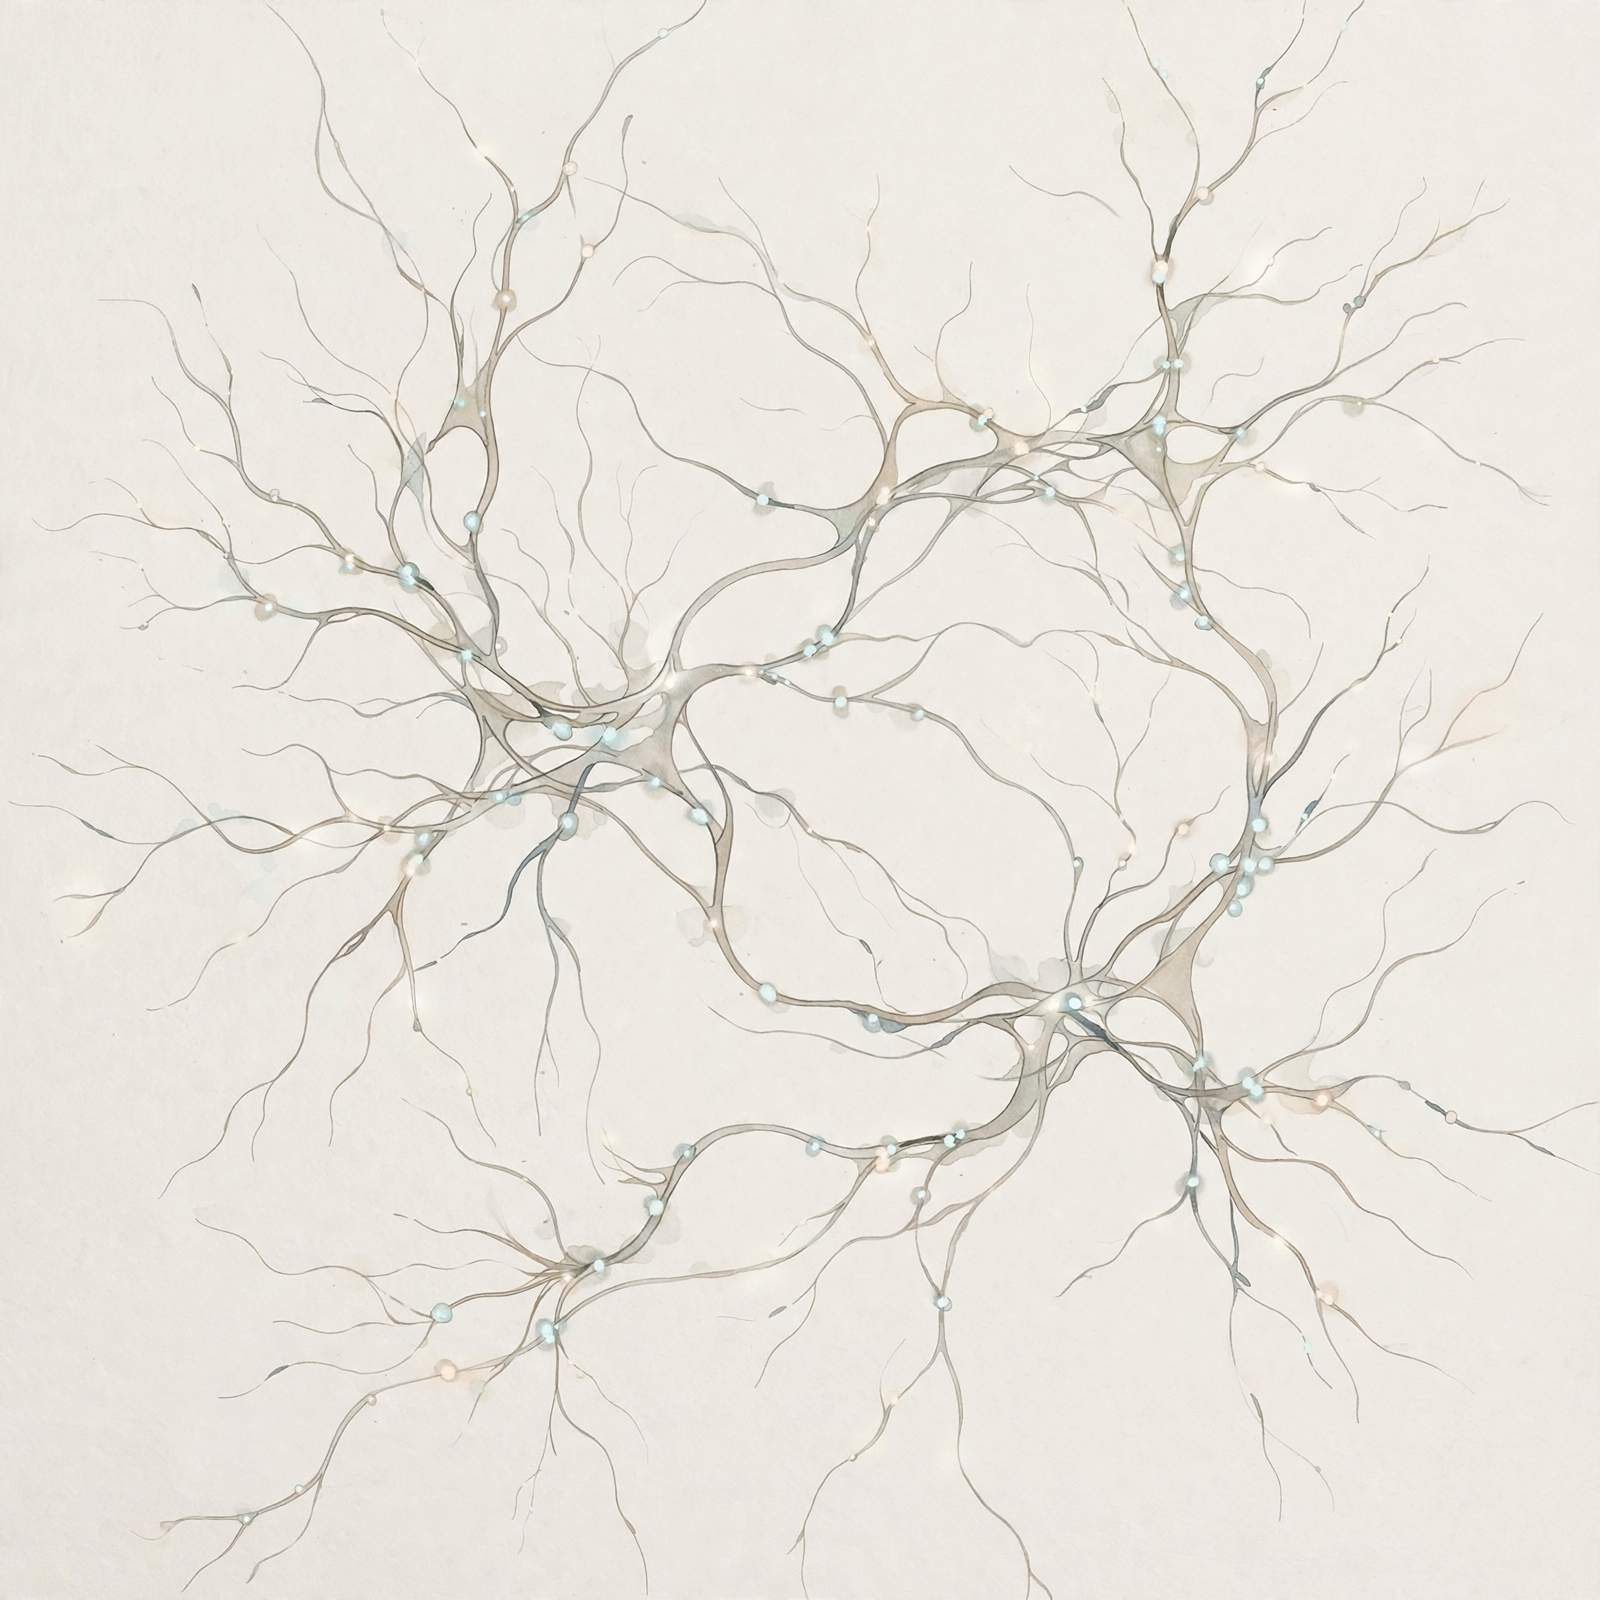
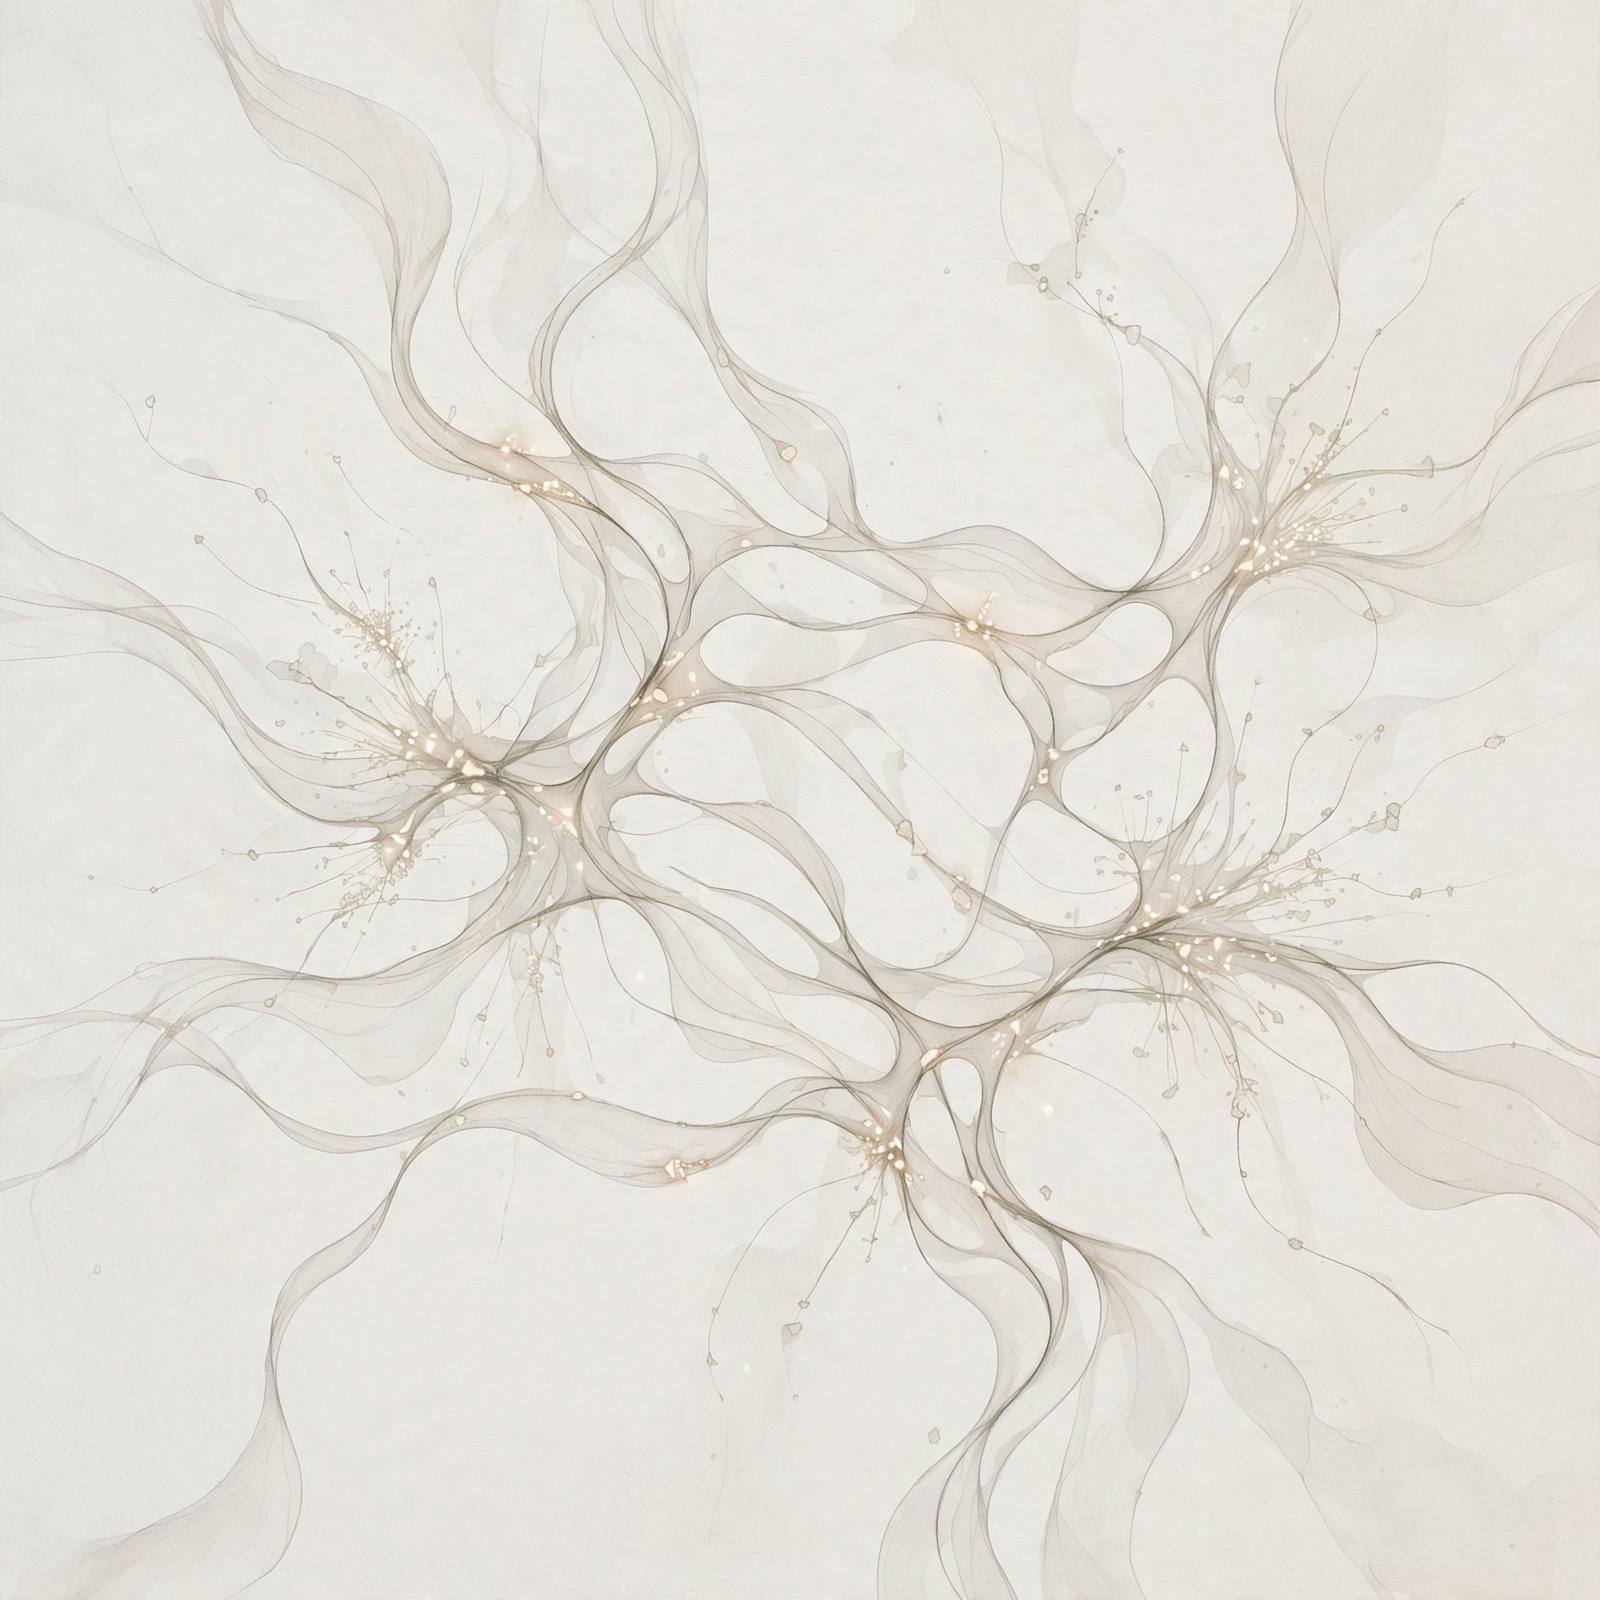
reset-brain.bat (one-click full reset to newborn) and dashboard display completion: dreams row with lucid count in the psychology readout, chat box now hints the commands (my name is X / forget X / cherish X); bond-seeded lonely thoughts call the person by name once it knows it

diff --git a/src/BioDashboard/wwwroot/index.html b/src/BioDashboard/wwwroot/index.html
@@ -127,6 +127,7 @@
             <div><dt>own voice</dt><dd id="voice-growth">—</dd></div>
             <div><dt>concepts</dt><dd id="semantic-growth">—</dd></div>
             <div><dt>rhythm</dt><dd id="turn-state">—</dd></div>
+            <div><dt>dreams</dt><dd id="dream-count">0</dd></div>
           </dl>
         </div>
       <div class="tabpane" data-pane="senses">
@@ -149,7 +150,7 @@
 </main>
 
 <form id="chatform" autocomplete="off">
-  <input id="chatbox" placeholder="Say something to it…" maxlength="200" aria-label="Talk to the brain">
+  <input id="chatbox" placeholder="say something... or: my name is X / forget X / cherish X" maxlength="200" aria-label="Talk to the brain">
   <button type="submit" aria-label="Send">↩</button>
 </form>
 <p id="disclaimer">Research platform. Computational proxies, not clinical claims.</p>

diff --git a/src/BioDashboard/wwwroot/app.js b/src/BioDashboard/wwwroot/app.js
@@ -190,6 +190,8 @@ function render(s) {
     : "listening");
   set("semantic-growth", `${s.Concepts || 0} concepts, ${s.ConceptLinks || 0} associations wired`);
   set("turn-state", s.TurnState || "silent room");
+  const dg = s.Dreams || [];
+  set("dream-count", `${dg.length}${s.LucidDreams ? ` (${s.LucidDreams} lucid)` : ""}`);
 
   // live transcribe panel: proves whether the mic is actually intercepted
   const lvl = document.getElementById("audio-level");

diff --git a/src/BioHost/BrainRuntime.cs b/src/BioHost/BrainRuntime.cs
@@ -399,7 +399,8 @@ public sealed class BrainRuntime : IDisposable
         {
             var s = Bonds.Strongest(_net.TimeMs);
             if (s is null || Loneliness.Level < 0.25f || _net.Rng.NextDouble() > 0.25) return null;
-            return $"missing someone specific: a person met {s.Visits} times, warmth {s.Warmth:F1}, " +
+            string who = _userName is null ? "a person" : $"{_userName}, a person";
+            return $"missing someone specific: {who} met {s.Visits} times, warmth {s.Warmth:F1}, " +
                    $"last seen {(_net.TimeMs - s.LastSeenMs) / 1000f:F0}s ago, and the loneliness is {Loneliness.Level:F1}. " +
                    "You feel their absence like a gap in the room.";
         };
